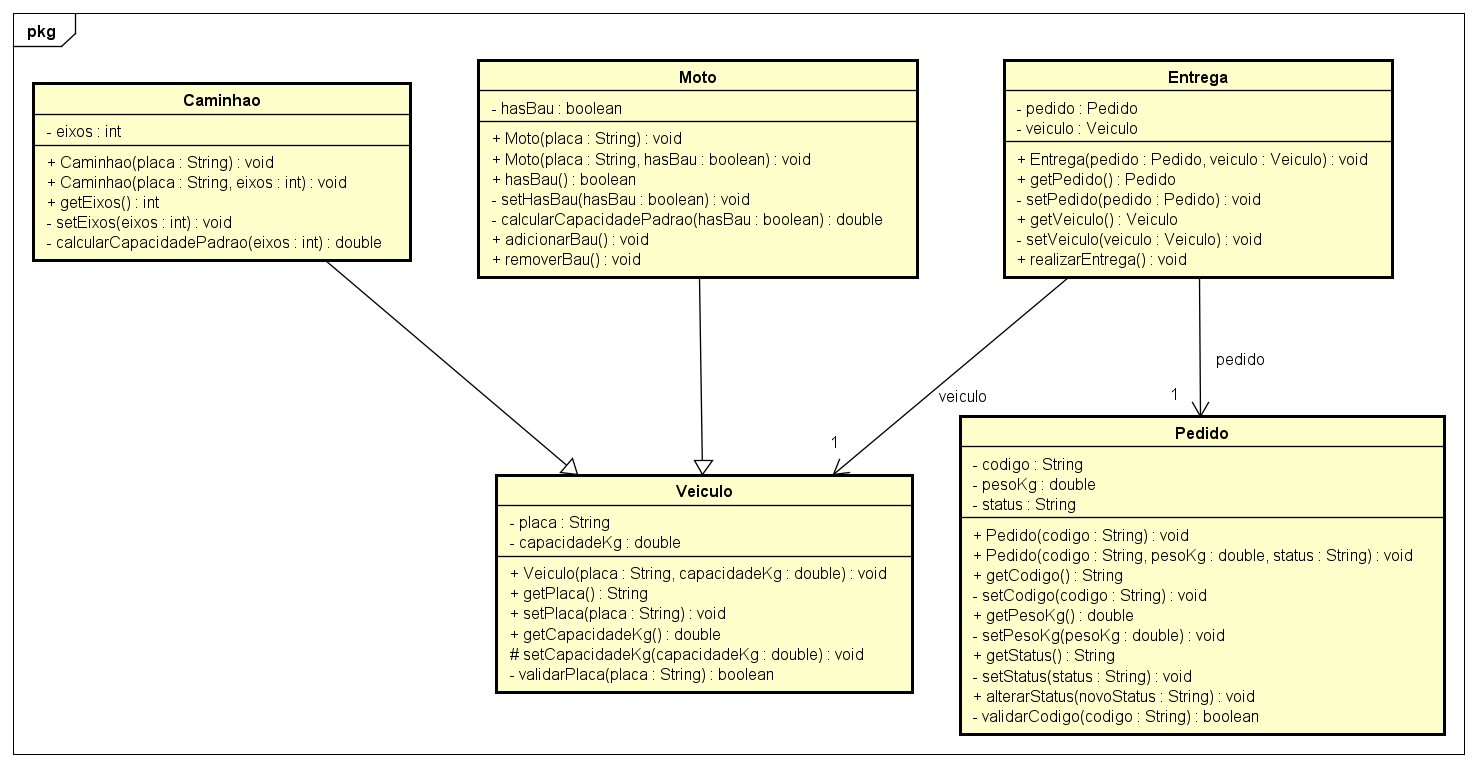
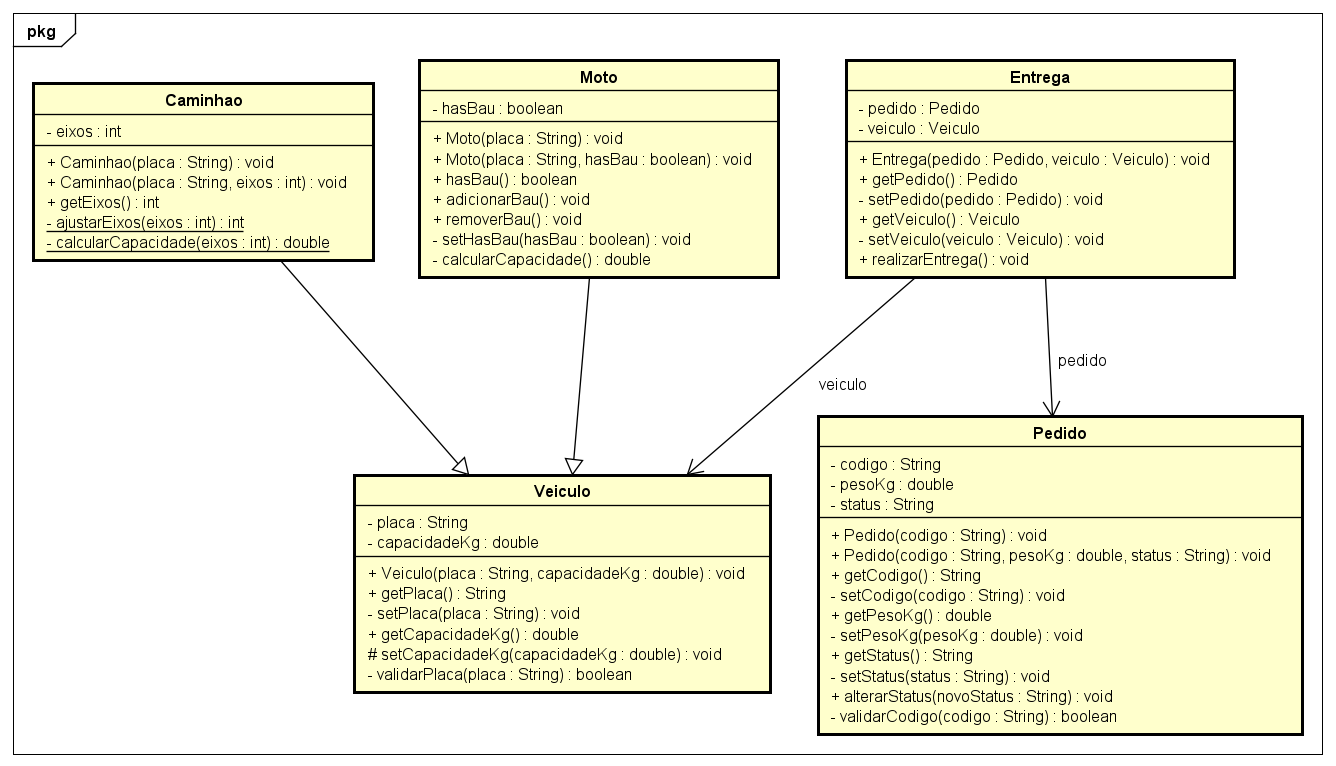
Fix: class and methods names

diff --git a/src/br/com/fiapdelivery/model/Caminhao.java b/src/br/com/fiapdelivery/model/Caminhao.java
@@ -7,7 +7,7 @@ public class Caminhao extends Veiculo {
     private static final double CAPACIDADE_BASE_KG = 3000.0;
     private static final double ACRESCIMO_POR_EIXO_KG = 750.0;
 
-    private int eixos;
+    private final int eixos;
 
     public Caminhao(String placa) {
         this(placa, EIXOS_PADRAO);
@@ -15,31 +15,27 @@ public class Caminhao extends Veiculo {
 
     public Caminhao(String placa, int eixos) {
         super(placa, CAPACIDADE_BASE_KG);
-        setEixos(eixos);
+        this.eixos = ajustarEixos(eixos);
+        setCapacidadeKg(calcularCapacidade(this.eixos));
     }
 
     public int getEixos() {
         return eixos;
     }
 
-    private void setEixos(int eixos) {
+    private static int ajustarEixos(int eixos) {
         if (eixos < EIXOS_MINIMOS) {
             System.out.println("Erro: caminhao deve ter no minimo 2 eixos. Ajustado para 2.");
-            this.eixos = EIXOS_PADRAO;
-            setCapacidadeKg(calcularCapacidadePadrao(this.eixos));
-            return;
+            return EIXOS_PADRAO;
         }
         if (eixos > EIXOS_MAXIMOS) {
             System.out.println("Erro: caminhao deve ter no maximo 6 eixos. Ajustado para 6.");
-            this.eixos = EIXOS_MAXIMOS;
-            setCapacidadeKg(calcularCapacidadePadrao(this.eixos));
-            return;
+            return EIXOS_MAXIMOS;
         }
-        this.eixos = eixos;
-        setCapacidadeKg(calcularCapacidadePadrao(eixos));
+        return eixos;
     }
 
-    private double calcularCapacidadePadrao(int eixos) {
+    private static double calcularCapacidade(int eixos) {
         return CAPACIDADE_BASE_KG + (eixos - EIXOS_MINIMOS) * ACRESCIMO_POR_EIXO_KG;
     }
 }

diff --git a/src/br/com/fiapdelivery/main/SistemaPrincipal.java b/src/br/com/fiapdelivery/main/SistemaPrincipal.java
@@ -28,6 +28,12 @@ public class SistemaPrincipal {
         System.out.println("Caminhao com mais eixos: placa=" + caminhaoComMaisEixos.getPlaca() + ", capacidadeKg=" + caminhaoComMaisEixos.getCapacidadeKg() + ", eixos=" + caminhaoComMaisEixos.getEixos());
         System.out.println("Moto: placa=" + motoPadrao.getPlaca() + ", capacidadeKg=" + motoPadrao.getCapacidadeKg() + ", bau=" + motoPadrao.hasBau());
         System.out.println("Moto com bau: placa=" + motoComBau.getPlaca() + ", capacidadeKg=" + motoComBau.getCapacidadeKg() + ", bau=" + motoComBau.hasBau());
+        System.out.println("\n=== Teste adicionar/remover bau ===");
+        System.out.println("Moto padrao antes: capacidadeKg=" + motoPadrao.getCapacidadeKg() + ", bau=" + motoPadrao.hasBau());
+        motoPadrao.adicionarBau();
+        System.out.println("Moto padrao apos adicionar bau: capacidadeKg=" + motoPadrao.getCapacidadeKg() + ", bau=" + motoPadrao.hasBau());
+        motoPadrao.removerBau();
+        System.out.println("Moto padrao apos remover bau: capacidadeKg=" + motoPadrao.getCapacidadeKg() + ", bau=" + motoPadrao.hasBau());
 
         System.out.println("\n=== Pedido (antigo Pacote) ===");
         System.out.println("Pedido leve: codigo=" + pedidoLeve.getCodigo() + ", pesoKg=" + pedidoLeve.getPesoKg() + ", status=" + pedidoLeve.getStatus());

diff --git a/src/br/com/fiapdelivery/model/Moto.java b/src/br/com/fiapdelivery/model/Moto.java
@@ -14,26 +14,29 @@ public class Moto extends Veiculo {
     public Moto(String placa, boolean hasBau) {
         super(placa, CAPACIDADE_BASE_KG);
         setHasBau(hasBau);
+        double capacidade = calcularCapacidade();
+        setCapacidadeKg(capacidade);
     }
 
     public boolean hasBau() {
-        return hasBau;
+        return this.hasBau;
     }
 
     public void adicionarBau() {
         setHasBau(true);
+        setCapacidadeKg(calcularCapacidade());
     }
 
     public void removerBau() {
         setHasBau(false);
+        setCapacidadeKg(calcularCapacidade());
     }
 
     private void setHasBau(boolean hasBau) {
         this.hasBau = hasBau;
-        setCapacidadeKg(calcularCapacidadePadrao(hasBau));
     }
 
-    private double calcularCapacidadePadrao(boolean hasBau) {
-        return hasBau ? CAPACIDADE_BASE_KG + ACRESCIMO_BAU_KG : CAPACIDADE_BASE_KG;
+    private double calcularCapacidade() {
+        return hasBau() ? CAPACIDADE_BASE_KG + ACRESCIMO_BAU_KG : CAPACIDADE_BASE_KG;
     }
 }

diff --git a/src/br/com/fiapdelivery/model/Veiculo.java b/src/br/com/fiapdelivery/model/Veiculo.java
@@ -13,7 +13,7 @@ public class Veiculo {
         return placa;
     }
 
-    public void setPlaca(String placa) {
+    private void setPlaca(String placa) {
         if (!validarPlaca(placa)) {
             System.out.println("Erro: placa invalida. Use formato antigo (AAA1234) ou Mercosul (AAA1A23).");
             return;
